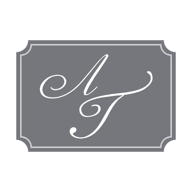
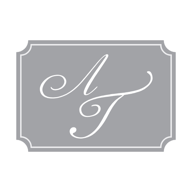
Σήμα ΛΤ σε ακόμα πιο ανοιχτό γκρι

diff --git a/ypiresies/index.html b/ypiresies/index.html
@@ -14,20 +14,20 @@
   <meta property="og:title" content="Υπηρεσίες Γραφείου Τελετών · Κηδείες, Αποτεφρώσεις, Μνημόσυνα · Ηλιούπολη">
   <meta property="og:description" content="Υπηρεσίες των Τελετών Τογρίδη στην Ηλιούπολη: κηδείες, αποτεφρώσεις, μνημόσυνα, επαναπατρισμός σορού, διεκπεραίωση διαδικασιών. 24/7: 210 992 6724.">
   <meta property="og:url" content="https://togridisilioypoli.vercel.app/ypiresies/">
-  <meta property="og:image" content="https://togridisilioypoli.vercel.app/og-image.png?v=2">
+  <meta property="og:image" content="https://togridisilioypoli.vercel.app/og-image.png?v=3">
   <meta property="og:image:width" content="1200">
   <meta property="og:image:height" content="630">
   <meta property="og:image:alt" content="Τελεταί Τογρίδη · Ηλιούπολη, 24/7">
   <meta name="twitter:card" content="summary_large_image">
   <meta name="twitter:title" content="Υπηρεσίες Γραφείου Τελετών · Κηδείες, Αποτεφρώσεις, Μνημόσυνα · Ηλιούπολη">
   <meta name="twitter:description" content="Υπηρεσίες των Τελετών Τογρίδη στην Ηλιούπολη: κηδείες, αποτεφρώσεις, μνημόσυνα, επαναπατρισμός σορού, διεκπεραίωση διαδικασιών. 24/7: 210 992 6724.">
-  <meta name="twitter:image" content="https://togridisilioypoli.vercel.app/og-image.png?v=2">
+  <meta name="twitter:image" content="https://togridisilioypoli.vercel.app/og-image.png?v=3">
   <meta name="format-detection" content="telephone=no">
-  <link rel="icon" href="/favicon.ico?v=2" sizes="48x48">
-  <link rel="icon" href="/favicon.svg?v=2" type="image/svg+xml">
-  <link rel="icon" href="/favicon-96.png?v=2" sizes="96x96" type="image/png">
+  <link rel="icon" href="/favicon.ico?v=3" sizes="48x48">
+  <link rel="icon" href="/favicon.svg?v=3" type="image/svg+xml">
+  <link rel="icon" href="/favicon-96.png?v=3" sizes="96x96" type="image/png">
   <link rel="manifest" href="/site.webmanifest">
-  <link rel="apple-touch-icon" href="/apple-touch-icon.png?v=2">
+  <link rel="apple-touch-icon" href="/apple-touch-icon.png?v=3">
   <link rel="preconnect" href="https://fonts.googleapis.com">
   <link rel="preconnect" href="https://fonts.gstatic.com" crossorigin>
   <link href="https://fonts.googleapis.com/css2?family=Commissioner:wght@400;500;600;700&family=Noto+Serif+Display:wght@400;500;600&display=swap" rel="stylesheet">

diff --git a/to-grafeio/index.html b/to-grafeio/index.html
@@ -14,20 +14,20 @@
   <meta property="og:title" content="Το Γραφείο · Τελεταί Τογρίδη, Γραφείο Τελετών Ηλιούπολη">
   <meta property="og:description" content="Γνωρίστε τις Τελεταί Τογρίδη στην Ηλιούπολη, έναντι Δημαρχείου. Με την εμπειρία του Λάζαρου Τογρίδη από το 1990, με σεβασμό και διακριτικότητα, 24 ώρες το 24ωρο.">
   <meta property="og:url" content="https://togridisilioypoli.vercel.app/to-grafeio/">
-  <meta property="og:image" content="https://togridisilioypoli.vercel.app/og-image.png?v=2">
+  <meta property="og:image" content="https://togridisilioypoli.vercel.app/og-image.png?v=3">
   <meta property="og:image:width" content="1200">
   <meta property="og:image:height" content="630">
   <meta property="og:image:alt" content="Τελεταί Τογρίδη · Ηλιούπολη, 24/7">
   <meta name="twitter:card" content="summary_large_image">
   <meta name="twitter:title" content="Το Γραφείο · Τελεταί Τογρίδη, Γραφείο Τελετών Ηλιούπολη">
   <meta name="twitter:description" content="Γνωρίστε τις Τελεταί Τογρίδη στην Ηλιούπολη, έναντι Δημαρχείου. Με την εμπειρία του Λάζαρου Τογρίδη από το 1990, με σεβασμό και διακριτικότητα, 24 ώρες το 24ωρο.">
-  <meta name="twitter:image" content="https://togridisilioypoli.vercel.app/og-image.png?v=2">
+  <meta name="twitter:image" content="https://togridisilioypoli.vercel.app/og-image.png?v=3">
   <meta name="format-detection" content="telephone=no">
-  <link rel="icon" href="/favicon.ico?v=2" sizes="48x48">
-  <link rel="icon" href="/favicon.svg?v=2" type="image/svg+xml">
-  <link rel="icon" href="/favicon-96.png?v=2" sizes="96x96" type="image/png">
+  <link rel="icon" href="/favicon.ico?v=3" sizes="48x48">
+  <link rel="icon" href="/favicon.svg?v=3" type="image/svg+xml">
+  <link rel="icon" href="/favicon-96.png?v=3" sizes="96x96" type="image/png">
   <link rel="manifest" href="/site.webmanifest">
-  <link rel="apple-touch-icon" href="/apple-touch-icon.png?v=2">
+  <link rel="apple-touch-icon" href="/apple-touch-icon.png?v=3">
   <link rel="preconnect" href="https://fonts.googleapis.com">
   <link rel="preconnect" href="https://fonts.gstatic.com" crossorigin>
   <link href="https://fonts.googleapis.com/css2?family=Commissioner:wght@400;500;600;700&family=Noto+Serif+Display:wght@400;500;600&display=swap" rel="stylesheet">

diff --git a/ypiresies/live-streaming/index.html b/ypiresies/live-streaming/index.html
@@ -14,20 +14,20 @@
   <meta property="og:title" content="Live Streaming Κηδείας · Ζωντανή Μετάδοση Τελετής · Ηλιούπολη">
   <meta property="og:description" content="Ζωντανή μετάδοση κηδείας και μνημοσύνου μέσω διαδικτύου, για συγγενείς και φίλους στο εξωτερικό ή σε άλλη πόλη. Τελεταί Τογρίδη, Ηλιούπολη. 24/7: 210 992 6724.">
   <meta property="og:url" content="https://togridisilioypoli.vercel.app/ypiresies/live-streaming/">
-  <meta property="og:image" content="https://togridisilioypoli.vercel.app/og-image.png?v=2">
+  <meta property="og:image" content="https://togridisilioypoli.vercel.app/og-image.png?v=3">
   <meta property="og:image:width" content="1200">
   <meta property="og:image:height" content="630">
   <meta property="og:image:alt" content="Τελεταί Τογρίδη · Ηλιούπολη, 24/7">
   <meta name="twitter:card" content="summary_large_image">
   <meta name="twitter:title" content="Live Streaming Κηδείας · Ζωντανή Μετάδοση Τελετής · Ηλιούπολη">
   <meta name="twitter:description" content="Ζωντανή μετάδοση κηδείας και μνημοσύνου μέσω διαδικτύου, για συγγενείς και φίλους στο εξωτερικό ή σε άλλη πόλη. Τελεταί Τογρίδη, Ηλιούπολη. 24/7: 210 992 6724.">
-  <meta name="twitter:image" content="https://togridisilioypoli.vercel.app/og-image.png?v=2">
+  <meta name="twitter:image" content="https://togridisilioypoli.vercel.app/og-image.png?v=3">
   <meta name="format-detection" content="telephone=no">
-  <link rel="icon" href="/favicon.ico?v=2" sizes="48x48">
-  <link rel="icon" href="/favicon.svg?v=2" type="image/svg+xml">
-  <link rel="icon" href="/favicon-96.png?v=2" sizes="96x96" type="image/png">
+  <link rel="icon" href="/favicon.ico?v=3" sizes="48x48">
+  <link rel="icon" href="/favicon.svg?v=3" type="image/svg+xml">
+  <link rel="icon" href="/favicon-96.png?v=3" sizes="96x96" type="image/png">
   <link rel="manifest" href="/site.webmanifest">
-  <link rel="apple-touch-icon" href="/apple-touch-icon.png?v=2">
+  <link rel="apple-touch-icon" href="/apple-touch-icon.png?v=3">
   <link rel="preconnect" href="https://fonts.googleapis.com">
   <link rel="preconnect" href="https://fonts.gstatic.com" crossorigin>
   <link href="https://fonts.googleapis.com/css2?family=Commissioner:wght@400;500;600;700&family=Noto+Serif+Display:wght@400;500;600&display=swap" rel="stylesheet">

diff --git a/ypiresies/diadikasies/index.html b/ypiresies/diadikasies/index.html
@@ -14,20 +14,20 @@
   <meta property="og:title" content="Διαδικασίες μετά τον Θάνατο · Ληξιαρχική Πράξη, Έξοδα Κηδείας">
   <meta property="og:description" content="Διεκπεραίωση διαδικασιών μετά από θάνατο: ληξιαρχική πράξη θανάτου, άδεια ταφής, έξοδα κηδείας από τον ΕΦΚΑ. Τελεταί Τογρίδη, Ηλιούπολη, 210 992 6724.">
   <meta property="og:url" content="https://togridisilioypoli.vercel.app/ypiresies/diadikasies/">
-  <meta property="og:image" content="https://togridisilioypoli.vercel.app/og-image.png?v=2">
+  <meta property="og:image" content="https://togridisilioypoli.vercel.app/og-image.png?v=3">
   <meta property="og:image:width" content="1200">
   <meta property="og:image:height" content="630">
   <meta property="og:image:alt" content="Τελεταί Τογρίδη · Ηλιούπολη, 24/7">
   <meta name="twitter:card" content="summary_large_image">
   <meta name="twitter:title" content="Διαδικασίες μετά τον Θάνατο · Ληξιαρχική Πράξη, Έξοδα Κηδείας">
   <meta name="twitter:description" content="Διεκπεραίωση διαδικασιών μετά από θάνατο: ληξιαρχική πράξη θανάτου, άδεια ταφής, έξοδα κηδείας από τον ΕΦΚΑ. Τελεταί Τογρίδη, Ηλιούπολη, 210 992 6724.">
-  <meta name="twitter:image" content="https://togridisilioypoli.vercel.app/og-image.png?v=2">
+  <meta name="twitter:image" content="https://togridisilioypoli.vercel.app/og-image.png?v=3">
   <meta name="format-detection" content="telephone=no">
-  <link rel="icon" href="/favicon.ico?v=2" sizes="48x48">
-  <link rel="icon" href="/favicon.svg?v=2" type="image/svg+xml">
-  <link rel="icon" href="/favicon-96.png?v=2" sizes="96x96" type="image/png">
+  <link rel="icon" href="/favicon.ico?v=3" sizes="48x48">
+  <link rel="icon" href="/favicon.svg?v=3" type="image/svg+xml">
+  <link rel="icon" href="/favicon-96.png?v=3" sizes="96x96" type="image/png">
   <link rel="manifest" href="/site.webmanifest">
-  <link rel="apple-touch-icon" href="/apple-touch-icon.png?v=2">
+  <link rel="apple-touch-icon" href="/apple-touch-icon.png?v=3">
   <link rel="preconnect" href="https://fonts.googleapis.com">
   <link rel="preconnect" href="https://fonts.gstatic.com" crossorigin>
   <link href="https://fonts.googleapis.com/css2?family=Commissioner:wght@400;500;600;700&family=Noto+Serif+Display:wght@400;500;600&display=swap" rel="stylesheet">

diff --git a/index.html b/index.html
@@ -14,20 +14,20 @@
   <meta property="og:title" content="Γραφείο Τελετών Ηλιούπολη · Τελεταί Τογρίδη · 24/7">
   <meta property="og:description" content="Τελεταί Τογρίδη, γραφείο τελετών στην Ηλιούπολη, Λεωφ. Πρωτόπαπα 51 (έναντι Δημαρχείου). Κηδείες, αποτεφρώσεις, μνημόσυνα, διαδικαστικά. 24 ώρες, 365 ημέρες: 210 992 6724.">
   <meta property="og:url" content="https://togridisilioypoli.vercel.app/">
-  <meta property="og:image" content="https://togridisilioypoli.vercel.app/og-image.png?v=2">
+  <meta property="og:image" content="https://togridisilioypoli.vercel.app/og-image.png?v=3">
   <meta property="og:image:width" content="1200">
   <meta property="og:image:height" content="630">
   <meta property="og:image:alt" content="Τελεταί Τογρίδη · Ηλιούπολη, 24/7">
   <meta name="twitter:card" content="summary_large_image">
   <meta name="twitter:title" content="Γραφείο Τελετών Ηλιούπολη · Τελεταί Τογρίδη · 24/7">
   <meta name="twitter:description" content="Τελεταί Τογρίδη, γραφείο τελετών στην Ηλιούπολη, Λεωφ. Πρωτόπαπα 51 (έναντι Δημαρχείου). Κηδείες, αποτεφρώσεις, μνημόσυνα, διαδικαστικά. 24 ώρες, 365 ημέρες: 210 992 6724.">
-  <meta name="twitter:image" content="https://togridisilioypoli.vercel.app/og-image.png?v=2">
+  <meta name="twitter:image" content="https://togridisilioypoli.vercel.app/og-image.png?v=3">
   <meta name="format-detection" content="telephone=no">
-  <link rel="icon" href="/favicon.ico?v=2" sizes="48x48">
-  <link rel="icon" href="/favicon.svg?v=2" type="image/svg+xml">
-  <link rel="icon" href="/favicon-96.png?v=2" sizes="96x96" type="image/png">
+  <link rel="icon" href="/favicon.ico?v=3" sizes="48x48">
+  <link rel="icon" href="/favicon.svg?v=3" type="image/svg+xml">
+  <link rel="icon" href="/favicon-96.png?v=3" sizes="96x96" type="image/png">
   <link rel="manifest" href="/site.webmanifest">
-  <link rel="apple-touch-icon" href="/apple-touch-icon.png?v=2">
+  <link rel="apple-touch-icon" href="/apple-touch-icon.png?v=3">
   <link rel="preconnect" href="https://fonts.googleapis.com">
   <link rel="preconnect" href="https://fonts.gstatic.com" crossorigin>
   <link href="https://fonts.googleapis.com/css2?family=Commissioner:wght@400;500;600;700&family=Noto+Serif+Display:wght@400;500;600&display=swap" rel="stylesheet">

diff --git a/ypiresies/kideies/index.html b/ypiresies/kideies/index.html
@@ -14,20 +14,20 @@
   <meta property="og:title" content="Κηδείες στην Ηλιούπολη · Οργάνωση Κηδείας 24/7">
   <meta property="og:description" content="Πλήρης οργάνωση κηδείας στην Ηλιούπολη και τις γύρω περιοχές από τις Τελεταί Τογρίδη. Παραλαβή σορού, ναός, κοιμητήριο, στολισμός, αγγελτήρια. 24/7: 210 992 6724.">
   <meta property="og:url" content="https://togridisilioypoli.vercel.app/ypiresies/kideies/">
-  <meta property="og:image" content="https://togridisilioypoli.vercel.app/og-image.png?v=2">
+  <meta property="og:image" content="https://togridisilioypoli.vercel.app/og-image.png?v=3">
   <meta property="og:image:width" content="1200">
   <meta property="og:image:height" content="630">
   <meta property="og:image:alt" content="Τελεταί Τογρίδη · Ηλιούπολη, 24/7">
   <meta name="twitter:card" content="summary_large_image">
   <meta name="twitter:title" content="Κηδείες στην Ηλιούπολη · Οργάνωση Κηδείας 24/7">
   <meta name="twitter:description" content="Πλήρης οργάνωση κηδείας στην Ηλιούπολη και τις γύρω περιοχές από τις Τελεταί Τογρίδη. Παραλαβή σορού, ναός, κοιμητήριο, στολισμός, αγγελτήρια. 24/7: 210 992 6724.">
-  <meta name="twitter:image" content="https://togridisilioypoli.vercel.app/og-image.png?v=2">
+  <meta name="twitter:image" content="https://togridisilioypoli.vercel.app/og-image.png?v=3">
   <meta name="format-detection" content="telephone=no">
-  <link rel="icon" href="/favicon.ico?v=2" sizes="48x48">
-  <link rel="icon" href="/favicon.svg?v=2" type="image/svg+xml">
-  <link rel="icon" href="/favicon-96.png?v=2" sizes="96x96" type="image/png">
+  <link rel="icon" href="/favicon.ico?v=3" sizes="48x48">
+  <link rel="icon" href="/favicon.svg?v=3" type="image/svg+xml">
+  <link rel="icon" href="/favicon-96.png?v=3" sizes="96x96" type="image/png">
   <link rel="manifest" href="/site.webmanifest">
-  <link rel="apple-touch-icon" href="/apple-touch-icon.png?v=2">
+  <link rel="apple-touch-icon" href="/apple-touch-icon.png?v=3">
   <link rel="preconnect" href="https://fonts.googleapis.com">
   <link rel="preconnect" href="https://fonts.gstatic.com" crossorigin>
   <link href="https://fonts.googleapis.com/css2?family=Commissioner:wght@400;500;600;700&family=Noto+Serif+Display:wght@400;500;600&display=swap" rel="stylesheet">

diff --git a/ypiresies/anthostolismos/index.html b/ypiresies/anthostolismos/index.html
@@ -14,20 +14,20 @@
   <meta property="og:title" content="Ανθοστολισμός Κηδείας · Στεφάνια &amp; Στολισμός Ναού · Ηλιούπολη">
   <meta property="og:description" content="Ανθοστολισμός κηδείας και μνημοσύνου: στολισμός ναού και φερέτρου, στεφάνια, ανθοσυνθέσεις. Τελεταί Τογρίδη, Ηλιούπολη. 24/7: 210 992 6724.">
   <meta property="og:url" content="https://togridisilioypoli.vercel.app/ypiresies/anthostolismos/">
-  <meta property="og:image" content="https://togridisilioypoli.vercel.app/og-image.png?v=2">
+  <meta property="og:image" content="https://togridisilioypoli.vercel.app/og-image.png?v=3">
   <meta property="og:image:width" content="1200">
   <meta property="og:image:height" content="630">
   <meta property="og:image:alt" content="Τελεταί Τογρίδη · Ηλιούπολη, 24/7">
   <meta name="twitter:card" content="summary_large_image">
   <meta name="twitter:title" content="Ανθοστολισμός Κηδείας · Στεφάνια &amp; Στολισμός Ναού · Ηλιούπολη">
   <meta name="twitter:description" content="Ανθοστολισμός κηδείας και μνημοσύνου: στολισμός ναού και φερέτρου, στεφάνια, ανθοσυνθέσεις. Τελεταί Τογρίδη, Ηλιούπολη. 24/7: 210 992 6724.">
-  <meta name="twitter:image" content="https://togridisilioypoli.vercel.app/og-image.png?v=2">
+  <meta name="twitter:image" content="https://togridisilioypoli.vercel.app/og-image.png?v=3">
   <meta name="format-detection" content="telephone=no">
-  <link rel="icon" href="/favicon.ico?v=2" sizes="48x48">
-  <link rel="icon" href="/favicon.svg?v=2" type="image/svg+xml">
-  <link rel="icon" href="/favicon-96.png?v=2" sizes="96x96" type="image/png">
+  <link rel="icon" href="/favicon.ico?v=3" sizes="48x48">
+  <link rel="icon" href="/favicon.svg?v=3" type="image/svg+xml">
+  <link rel="icon" href="/favicon-96.png?v=3" sizes="96x96" type="image/png">
   <link rel="manifest" href="/site.webmanifest">
-  <link rel="apple-touch-icon" href="/apple-touch-icon.png?v=2">
+  <link rel="apple-touch-icon" href="/apple-touch-icon.png?v=3">
   <link rel="preconnect" href="https://fonts.googleapis.com">
   <link rel="preconnect" href="https://fonts.gstatic.com" crossorigin>
   <link href="https://fonts.googleapis.com/css2?family=Commissioner:wght@400;500;600;700&family=Noto+Serif+Display:wght@400;500;600&display=swap" rel="stylesheet">

diff --git a/ekthesiakos-xoros/index.html b/ekthesiakos-xoros/index.html
@@ -14,20 +14,20 @@
   <meta property="og:title" content="Εκθεσιακός Χώρος · Φέρετρα · Τελεταί Τογρίδη, Ηλιούπολη">
   <meta property="og:description" content="Δείτε τα φέρετρα του εκθεσιακού μας χώρου στην Ηλιούπολη. Μεγάλη γκάμα σε ξύλο και αποχρώσεις, με σαφή ενημέρωση για διαθεσιμότητα και τιμή.">
   <meta property="og:url" content="https://togridisilioypoli.vercel.app/ekthesiakos-xoros/">
-  <meta property="og:image" content="https://togridisilioypoli.vercel.app/og-image.png?v=2">
+  <meta property="og:image" content="https://togridisilioypoli.vercel.app/og-image.png?v=3">
   <meta property="og:image:width" content="1200">
   <meta property="og:image:height" content="630">
   <meta property="og:image:alt" content="Τελεταί Τογρίδη · Ηλιούπολη, 24/7">
   <meta name="twitter:card" content="summary_large_image">
   <meta name="twitter:title" content="Εκθεσιακός Χώρος · Φέρετρα · Τελεταί Τογρίδη, Ηλιούπολη">
   <meta name="twitter:description" content="Δείτε τα φέρετρα του εκθεσιακού μας χώρου στην Ηλιούπολη. Μεγάλη γκάμα σε ξύλο και αποχρώσεις, με σαφή ενημέρωση για διαθεσιμότητα και τιμή.">
-  <meta name="twitter:image" content="https://togridisilioypoli.vercel.app/og-image.png?v=2">
+  <meta name="twitter:image" content="https://togridisilioypoli.vercel.app/og-image.png?v=3">
   <meta name="format-detection" content="telephone=no">
-  <link rel="icon" href="/favicon.ico?v=2" sizes="48x48">
-  <link rel="icon" href="/favicon.svg?v=2" type="image/svg+xml">
-  <link rel="icon" href="/favicon-96.png?v=2" sizes="96x96" type="image/png">
+  <link rel="icon" href="/favicon.ico?v=3" sizes="48x48">
+  <link rel="icon" href="/favicon.svg?v=3" type="image/svg+xml">
+  <link rel="icon" href="/favicon-96.png?v=3" sizes="96x96" type="image/png">
   <link rel="manifest" href="/site.webmanifest">
-  <link rel="apple-touch-icon" href="/apple-touch-icon.png?v=2">
+  <link rel="apple-touch-icon" href="/apple-touch-icon.png?v=3">
   <link rel="preconnect" href="https://fonts.googleapis.com">
   <link rel="preconnect" href="https://fonts.gstatic.com" crossorigin>
   <link href="https://fonts.googleapis.com/css2?family=Commissioner:wght@400;500;600;700&family=Noto+Serif+Display:wght@400;500;600&display=swap" rel="stylesheet">

diff --git a/ypiresies/epanapatrismos/index.html b/ypiresies/epanapatrismos/index.html
@@ -14,20 +14,20 @@
   <meta property="og:title" content="Επαναπατρισμός Σορού · Μεταφορά Σορού Εξωτερικό">
   <meta property="og:description" content="Επαναπατρισμός σορού από το εξωτερικό και μεταφορά σορού σε όλη την Ελλάδα. Έγγραφα, προξενεία, αεροπορική μεταφορά. Τελεταί Τογρίδη, 24/7: 210 992 6724.">
   <meta property="og:url" content="https://togridisilioypoli.vercel.app/ypiresies/epanapatrismos/">
-  <meta property="og:image" content="https://togridisilioypoli.vercel.app/og-image.png?v=2">
+  <meta property="og:image" content="https://togridisilioypoli.vercel.app/og-image.png?v=3">
   <meta property="og:image:width" content="1200">
   <meta property="og:image:height" content="630">
   <meta property="og:image:alt" content="Τελεταί Τογρίδη · Ηλιούπολη, 24/7">
   <meta name="twitter:card" content="summary_large_image">
   <meta name="twitter:title" content="Επαναπατρισμός Σορού · Μεταφορά Σορού Εξωτερικό">
   <meta name="twitter:description" content="Επαναπατρισμός σορού από το εξωτερικό και μεταφορά σορού σε όλη την Ελλάδα. Έγγραφα, προξενεία, αεροπορική μεταφορά. Τελεταί Τογρίδη, 24/7: 210 992 6724.">
-  <meta name="twitter:image" content="https://togridisilioypoli.vercel.app/og-image.png?v=2">
+  <meta name="twitter:image" content="https://togridisilioypoli.vercel.app/og-image.png?v=3">
   <meta name="format-detection" content="telephone=no">
-  <link rel="icon" href="/favicon.ico?v=2" sizes="48x48">
-  <link rel="icon" href="/favicon.svg?v=2" type="image/svg+xml">
-  <link rel="icon" href="/favicon-96.png?v=2" sizes="96x96" type="image/png">
+  <link rel="icon" href="/favicon.ico?v=3" sizes="48x48">
+  <link rel="icon" href="/favicon.svg?v=3" type="image/svg+xml">
+  <link rel="icon" href="/favicon-96.png?v=3" sizes="96x96" type="image/png">
   <link rel="manifest" href="/site.webmanifest">
-  <link rel="apple-touch-icon" href="/apple-touch-icon.png?v=2">
+  <link rel="apple-touch-icon" href="/apple-touch-icon.png?v=3">
   <link rel="preconnect" href="https://fonts.googleapis.com">
   <link rel="preconnect" href="https://fonts.gstatic.com" crossorigin>
   <link href="https://fonts.googleapis.com/css2?family=Commissioner:wght@400;500;600;700&family=Noto+Serif+Display:wght@400;500;600&display=swap" rel="stylesheet">

diff --git a/epikoinonia/index.html b/epikoinonia/index.html
@@ -14,20 +14,20 @@
   <meta property="og:title" content="Επικοινωνία · Τελεταί Τογρίδη · Γραφείο Τελετών Ηλιούπολη">
   <meta property="og:description" content="Επικοινωνήστε με τις Τελεταί Τογρίδη: Λεωφ. Πρωτόπαπα 51, Ηλιούπολη (έναντι Δημαρχείου). Τηλ. 210 992 6724, 210 992 1194, κιν. 694 431 0579. 24 ώρες το 24ωρο.">
   <meta property="og:url" content="https://togridisilioypoli.vercel.app/epikoinonia/">
-  <meta property="og:image" content="https://togridisilioypoli.vercel.app/og-image.png?v=2">
+  <meta property="og:image" content="https://togridisilioypoli.vercel.app/og-image.png?v=3">
   <meta property="og:image:width" content="1200">
   <meta property="og:image:height" content="630">
   <meta property="og:image:alt" content="Τελεταί Τογρίδη · Ηλιούπολη, 24/7">
   <meta name="twitter:card" content="summary_large_image">
   <meta name="twitter:title" content="Επικοινωνία · Τελεταί Τογρίδη · Γραφείο Τελετών Ηλιούπολη">
   <meta name="twitter:description" content="Επικοινωνήστε με τις Τελεταί Τογρίδη: Λεωφ. Πρωτόπαπα 51, Ηλιούπολη (έναντι Δημαρχείου). Τηλ. 210 992 6724, 210 992 1194, κιν. 694 431 0579. 24 ώρες το 24ωρο.">
-  <meta name="twitter:image" content="https://togridisilioypoli.vercel.app/og-image.png?v=2">
+  <meta name="twitter:image" content="https://togridisilioypoli.vercel.app/og-image.png?v=3">
   <meta name="format-detection" content="telephone=no">
-  <link rel="icon" href="/favicon.ico?v=2" sizes="48x48">
-  <link rel="icon" href="/favicon.svg?v=2" type="image/svg+xml">
-  <link rel="icon" href="/favicon-96.png?v=2" sizes="96x96" type="image/png">
+  <link rel="icon" href="/favicon.ico?v=3" sizes="48x48">
+  <link rel="icon" href="/favicon.svg?v=3" type="image/svg+xml">
+  <link rel="icon" href="/favicon-96.png?v=3" sizes="96x96" type="image/png">
   <link rel="manifest" href="/site.webmanifest">
-  <link rel="apple-touch-icon" href="/apple-touch-icon.png?v=2">
+  <link rel="apple-touch-icon" href="/apple-touch-icon.png?v=3">
   <link rel="preconnect" href="https://fonts.googleapis.com">
   <link rel="preconnect" href="https://fonts.gstatic.com" crossorigin>
   <link href="https://fonts.googleapis.com/css2?family=Commissioner:wght@400;500;600;700&family=Noto+Serif+Display:wght@400;500;600&display=swap" rel="stylesheet">

diff --git a/ypiresies/apotefroseis/index.html b/ypiresies/apotefroseis/index.html
@@ -14,20 +14,20 @@
   <meta property="og:title" content="Αποτέφρωση Νεκρών · Γραφείο Τελετών Ηλιούπολη">
   <meta property="og:description" content="Οργάνωση αποτέφρωσης από τις Τελεταί Τογρίδη στην Ηλιούπολη. Δικαιολογητικά, μεταφορά στο κέντρο αποτέφρωσης, τελετή, τεφροδόχος. 24/7: 210 992 6724.">
   <meta property="og:url" content="https://togridisilioypoli.vercel.app/ypiresies/apotefroseis/">
-  <meta property="og:image" content="https://togridisilioypoli.vercel.app/og-image.png?v=2">
+  <meta property="og:image" content="https://togridisilioypoli.vercel.app/og-image.png?v=3">
   <meta property="og:image:width" content="1200">
   <meta property="og:image:height" content="630">
   <meta property="og:image:alt" content="Τελεταί Τογρίδη · Ηλιούπολη, 24/7">
   <meta name="twitter:card" content="summary_large_image">
   <meta name="twitter:title" content="Αποτέφρωση Νεκρών · Γραφείο Τελετών Ηλιούπολη">
   <meta name="twitter:description" content="Οργάνωση αποτέφρωσης από τις Τελεταί Τογρίδη στην Ηλιούπολη. Δικαιολογητικά, μεταφορά στο κέντρο αποτέφρωσης, τελετή, τεφροδόχος. 24/7: 210 992 6724.">
-  <meta name="twitter:image" content="https://togridisilioypoli.vercel.app/og-image.png?v=2">
+  <meta name="twitter:image" content="https://togridisilioypoli.vercel.app/og-image.png?v=3">
   <meta name="format-detection" content="telephone=no">
-  <link rel="icon" href="/favicon.ico?v=2" sizes="48x48">
-  <link rel="icon" href="/favicon.svg?v=2" type="image/svg+xml">
-  <link rel="icon" href="/favicon-96.png?v=2" sizes="96x96" type="image/png">
+  <link rel="icon" href="/favicon.ico?v=3" sizes="48x48">
+  <link rel="icon" href="/favicon.svg?v=3" type="image/svg+xml">
+  <link rel="icon" href="/favicon-96.png?v=3" sizes="96x96" type="image/png">
   <link rel="manifest" href="/site.webmanifest">
-  <link rel="apple-touch-icon" href="/apple-touch-icon.png?v=2">
+  <link rel="apple-touch-icon" href="/apple-touch-icon.png?v=3">
   <link rel="preconnect" href="https://fonts.googleapis.com">
   <link rel="preconnect" href="https://fonts.gstatic.com" crossorigin>
   <link href="https://fonts.googleapis.com/css2?family=Commissioner:wght@400;500;600;700&family=Noto+Serif+Display:wght@400;500;600&display=swap" rel="stylesheet">

diff --git a/ti-kano-tora/index.html b/ti-kano-tora/index.html
@@ -14,20 +14,20 @@
   <meta property="og:title" content="Τι Κάνω Όταν Πεθάνει Κάποιος · Οδηγός Πρώτων Βημάτων">
   <meta property="og:description" content="Τι κάνω όταν συμβεί ένας θάνατος στο σπίτι, σε νοσοκομείο ή στο εξωτερικό; Απλός οδηγός από τις Τελεταί Τογρίδη, Ηλιούπολη. 24/7: 210 992 6724.">
   <meta property="og:url" content="https://togridisilioypoli.vercel.app/ti-kano-tora/">
-  <meta property="og:image" content="https://togridisilioypoli.vercel.app/og-image.png?v=2">
+  <meta property="og:image" content="https://togridisilioypoli.vercel.app/og-image.png?v=3">
   <meta property="og:image:width" content="1200">
   <meta property="og:image:height" content="630">
   <meta property="og:image:alt" content="Τελεταί Τογρίδη · Ηλιούπολη, 24/7">
   <meta name="twitter:card" content="summary_large_image">
   <meta name="twitter:title" content="Τι Κάνω Όταν Πεθάνει Κάποιος · Οδηγός Πρώτων Βημάτων">
   <meta name="twitter:description" content="Τι κάνω όταν συμβεί ένας θάνατος στο σπίτι, σε νοσοκομείο ή στο εξωτερικό; Απλός οδηγός από τις Τελεταί Τογρίδη, Ηλιούπολη. 24/7: 210 992 6724.">
-  <meta name="twitter:image" content="https://togridisilioypoli.vercel.app/og-image.png?v=2">
+  <meta name="twitter:image" content="https://togridisilioypoli.vercel.app/og-image.png?v=3">
   <meta name="format-detection" content="telephone=no">
-  <link rel="icon" href="/favicon.ico?v=2" sizes="48x48">
-  <link rel="icon" href="/favicon.svg?v=2" type="image/svg+xml">
-  <link rel="icon" href="/favicon-96.png?v=2" sizes="96x96" type="image/png">
+  <link rel="icon" href="/favicon.ico?v=3" sizes="48x48">
+  <link rel="icon" href="/favicon.svg?v=3" type="image/svg+xml">
+  <link rel="icon" href="/favicon-96.png?v=3" sizes="96x96" type="image/png">
   <link rel="manifest" href="/site.webmanifest">
-  <link rel="apple-touch-icon" href="/apple-touch-icon.png?v=2">
+  <link rel="apple-touch-icon" href="/apple-touch-icon.png?v=3">
   <link rel="preconnect" href="https://fonts.googleapis.com">
   <link rel="preconnect" href="https://fonts.gstatic.com" crossorigin>
   <link href="https://fonts.googleapis.com/css2?family=Commissioner:wght@400;500;600;700&family=Noto+Serif+Display:wght@400;500;600&display=swap" rel="stylesheet">
